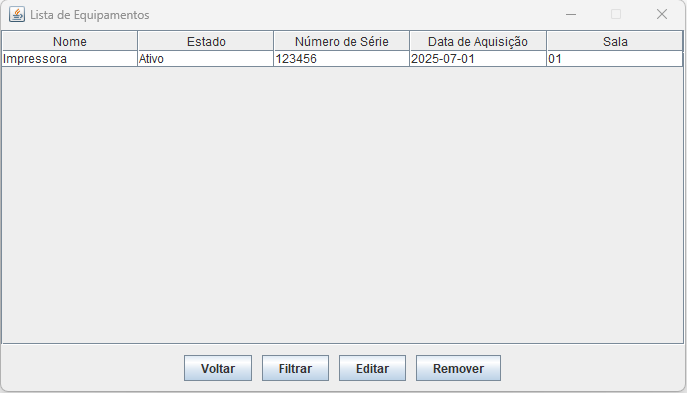
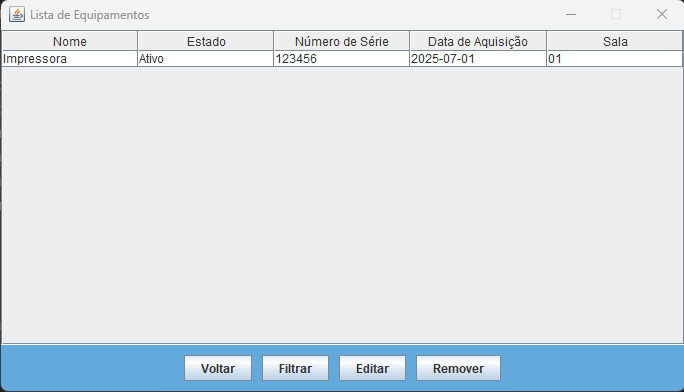
Atualização background e icone

diff --git a/src/main/java/view/ListarEquipamentosView.java b/src/main/java/view/ListarEquipamentosView.java
@@ -2,6 +2,8 @@ package view;
 
 // Importa todas as classes do pacote javax.swing, utilizadas para construir interfaces gráficas em Java
 // Inclui componentes como JFrame, JPanel, JButton, JLabel, JTextField, JTable, JScrollPane, etc.
+import util.IconeUtil;
+
 import javax.swing.*;
 
 // Importa a classe DefaultTableModel, usada para gerir os dados que aparecem numa JTable
@@ -32,6 +34,7 @@ public class ListarEquipamentosView extends JFrame {
     public ListarEquipamentosView() {
         setTitle("Lista de Equipamentos");                  // Define o título da janela
         setSize(700, 400);                                  // Define o tamanho da janela
+        IconeUtil.aplicarIcone(this);
         setDefaultCloseOperation(DISPOSE_ON_CLOSE);         // Fecha apenas esta janela ao clicar em X
         setLocationRelativeTo(null);                        // Centraliza a janela no ecrã
         setResizable(false);                                // Impede redimensionamento
@@ -41,8 +44,12 @@ public class ListarEquipamentosView extends JFrame {
                 new Object[]{"Nome", "Estado", "Número de Série", "Data de Aquisição", "Sala"}, 0));
         JScrollPane scroll = new JScrollPane(tabela);       // Adiciona scroll à tabela
 
+
+
+
         // Painel inferior com os botões de ação
         JPanel painelBotoes = new JPanel(new FlowLayout(FlowLayout.CENTER, 10, 10));
+        painelBotoes.setBackground(new Color(100, 169, 220, 255));
 
         // Instanciação dos botões
         btnEditar = new JButton("Editar");

diff --git a/src/main/java/view/LoginView.java b/src/main/java/view/LoginView.java
@@ -2,6 +2,7 @@ package view;
 
 import model.Utilizador;
 import controller.LoginController;
+import util.IconeUtil;
 
 import javax.swing.*;
 import java.awt.*;
@@ -16,6 +17,7 @@ public class LoginView extends JFrame {
     public LoginView(LoginController controller) {
         setTitle("Login - JavaTech");
         setSize(350, 270);
+        IconeUtil.aplicarIcone(this);
         setDefaultCloseOperation(EXIT_ON_CLOSE);
         setLocationRelativeTo(null);
         setResizable(false);
@@ -24,10 +26,15 @@ public class LoginView extends JFrame {
         JLabel tituloLabel = new JLabel("JavaTech Equipamentos");
         tituloLabel.setFont(new Font(tituloLabel.getFont().getFontName(), Font.BOLD, 18));
         titulo.add(tituloLabel);
+        titulo.setBackground(new Color(100, 169, 220, 255));
+        tituloLabel.setForeground(new Color(255,100,50));
+
 
 
         JPanel painel = new JPanel(new GridLayout(4,2, 10, 10));
         painel.setBorder(BorderFactory.createEmptyBorder(20, 20, 10, 20));
+        painel.setOpaque(false); // torna o painel transparente para mostrar o fundo do painel principal
+
 
 
         painel.add(new JLabel("Utilizador (Email):"));
@@ -59,6 +66,7 @@ public class LoginView extends JFrame {
         JPanel painelPrincipal = new JPanel(new BorderLayout());
         painelPrincipal.add(titulo, BorderLayout.NORTH);
         painelPrincipal.add(painel, BorderLayout.CENTER);
+        painelPrincipal.setBackground(new Color(100, 169, 220, 255));
 
         setContentPane(painelPrincipal);
     }

diff --git a/src/main/java/view/InserirEquipamentoView.java b/src/main/java/view/InserirEquipamentoView.java
@@ -10,6 +10,8 @@ import model.Utilizador;
 import org.jdatepicker.impl.JDatePanelImpl;
 import org.jdatepicker.impl.JDatePickerImpl;
 import org.jdatepicker.impl.UtilDateModel;
+import util.IconeUtil;
+
 import java.util.Properties;
 
 
@@ -26,6 +28,7 @@ public class InserirEquipamentoView extends JFrame {
 
     public InserirEquipamentoView(Utilizador utilizador) {
         setTitle("Inserir Equipamento");
+        IconeUtil.aplicarIcone(this);
         setSize(450, 400);
         setDefaultCloseOperation(DISPOSE_ON_CLOSE);
         setLocationRelativeTo(null);
@@ -33,6 +36,7 @@ public class InserirEquipamentoView extends JFrame {
 
         JPanel painel = new JPanel(new GridLayout(8, 2, 12, 10));
         painel.setBorder(BorderFactory.createEmptyBorder(20, 20, 20, 20));
+        painel.setBackground(new Color(100, 169, 220, 255));
 
         painel.add(new JLabel("Utilizador: " + utilizador.getUtilizador()));
         painel.add(new JLabel("Perfil: " + utilizador.getPerfil_id()));

diff --git a/src/main/java/view/MenuView.java b/src/main/java/view/MenuView.java
@@ -1,5 +1,7 @@
 package view;
 
+import util.IconeUtil;
+
 import javax.swing.*;
 import java.awt.*;
 
@@ -12,6 +14,7 @@ public class MenuView extends JFrame {
     public MenuView() {
         setTitle("Menu Principal - JavaTech");
         setSize(300, 200);
+        IconeUtil.aplicarIcone(this);
         setDefaultCloseOperation(EXIT_ON_CLOSE);
         setLocationRelativeTo(null);
         setResizable(false);
@@ -19,6 +22,7 @@ public class MenuView extends JFrame {
         // Painel com os botões
         JPanel painel = new JPanel(new GridLayout(3, 1, 10, 10));
         painel.setBorder(BorderFactory.createEmptyBorder(20, 20, 20, 20));
+        painel.setBackground(new Color(100, 169, 220, 255));
 
         btnInserir = new JButton("Inserir Equipamento");
         btnListar = new JButton("Listar Equipamentos");

diff --git a/src/main/java/util/IconeUtil.java b/src/main/java/util/IconeUtil.java
@@ -1,0 +1,12 @@
+package util;
+
+import javax.swing.*;
+import java.awt.*;
+
+public class IconeUtil {
+
+    public static void aplicarIcone(JFrame frame) {
+        ImageIcon icon = new ImageIcon(IconeUtil.class.getResource("/assets/images/icone.png"));
+        frame.setIconImage(icon.getImage());
+    }
+}
